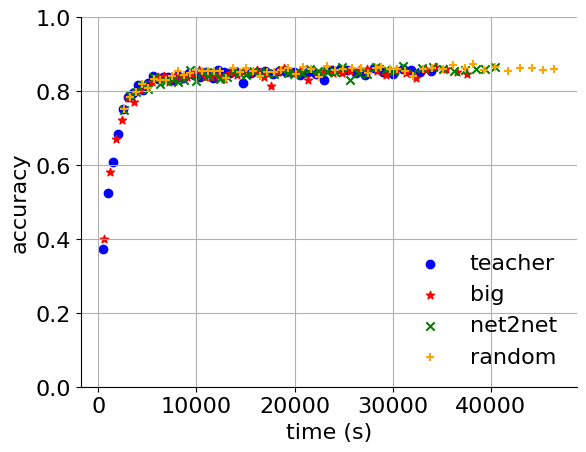
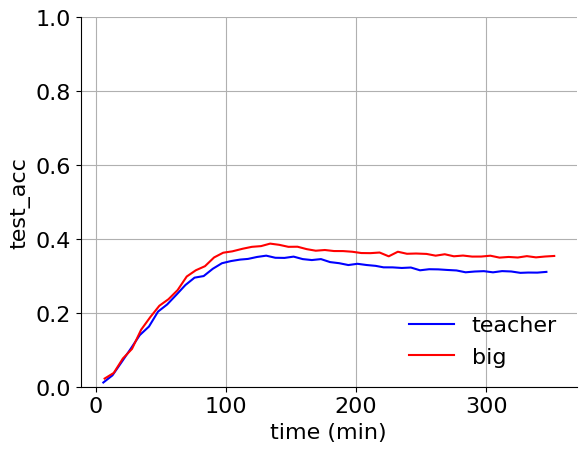
going to rerun cifar10 now so we can compare

diff --git a/plotting/plot4.py b/plotting/plot4.py
@@ -9,106 +9,78 @@ sys.path.append(os.path.join("..", "src"))
 
 import plot
 import config
+from logger import ML_Logger as LOG
 
 
 def plot6():
-    teacher_metrics = plot.breakdown_into_lists(
-        os.path.join(config.RESULTS, "TeacherInceptionCIFAR10_11_18_1")
+    metric = "train_acc"
+
+    teacher_metrics = LOG.load_metrics(
+        os.path.join(config.RESULTS, "TeacherInceptionTinyImageNet_11_19_1"),
+        "training",
+        metric,
+        "epoch",
     )
-    big_metrics = plot.breakdown_into_lists(
-        os.path.join(config.RESULTS, "BigInceptionCIFAR10_11_18_2")
+
+    big_metrics = LOG.load_metrics(
+        os.path.join(config.RESULTS, "BigInceptionTinyImageNet_11_19_2"),
+        "training",
+        metric,
+        "epoch",
     )
-    # net2net_only = plot.breakdown_into_lists(
-    #     os.path.join(config.RESULTS, "AdaptedInceptionCIFAR10_11_11_3")
-    # )
-    # random_deepen = plot.breakdown_into_lists(
-    #     os.path.join(config.RESULTS, "AdaptedInceptionCIFAR10_11_11_4")
-    # )
     _, ax = plt.subplots()
     ax.plot(
-        teacher_metrics["test_epoch_times"],
-        teacher_metrics["test_epoch_accs"],
+        plot.to_min(teacher_metrics["times"]),
+        teacher_metrics["metrics"],
         color="blue",
         linestyle="-",
         label="teacher",
     )
     ax.plot(
-        big_metrics["test_epoch_times"],
-        big_metrics["test_epoch_accs"],
+        plot.to_min(big_metrics["times"]),
+        big_metrics["metrics"],
         color="red",
         linestyle="-",
         label="big",
     )
-    # ax.plot(
-    #     np.add(
-    #         net2net_only["train_batch_times"], teacher_metrics["train_epoch_times"][3]
-    #     ),
-    #     net2net_only["train_batch_accs"],
-    #     color="green",
-    #     linestyle="-",
-    #     label="net2net"
-    # )
-    # ax.plot(
-    #     np.add(
-    #         random_deepen["train_batch_times"], teacher_metrics["train_epoch_times"][3]
-    #     ),
-    #     random_deepen["train_batch_accs"],
-    #     color="orange",
-    #     linestyle="-",
-    #     label="random"
-    # )
-    plot.make_plot_nice(ax, "time (s)", "accuracy", 0, 1)
+    plot.make_plot_nice(ax, "time (min)", metric, 0, 1)
     plot.save("plot6.png")
 
 
 def plot7():
-    teacher_metrics = plot.breakdown_into_lists(
-        os.path.join(config.RESULTS, "TeacherInceptionCIFAR10_11_11_1")
+    metric = "test_acc"
+
+    teacher_metrics = LOG.load_metrics(
+        os.path.join(config.RESULTS, "TeacherInceptionTinyImageNet_11_19_1"),
+        "training",
+        metric,
+        "epoch",
     )
-    big_metrics = plot.breakdown_into_lists(
-        os.path.join(config.RESULTS, "BigInceptionCIFAR10_11_11_2")
-    )
-    net2net_only = plot.breakdown_into_lists(
-        os.path.join(config.RESULTS, "AdaptedInceptionCIFAR10_11_11_3")
-    )
-    random_deepen = plot.breakdown_into_lists(
-        os.path.join(config.RESULTS, "AdaptedInceptionCIFAR10_11_11_4")
+
+    big_metrics = LOG.load_metrics(
+        os.path.join(config.RESULTS, "BigInceptionTinyImageNet_11_19_2"),
+        "training",
+        metric,
+        "epoch",
     )
     _, ax = plt.subplots()
-    ax.scatter(
-        teacher_metrics["test_epoch_times"],
-        teacher_metrics["test_epoch_accs"],
+    ax.plot(
+        plot.to_min(teacher_metrics["times"]),
+        teacher_metrics["metrics"],
         color="blue",
-        marker="o",
+        linestyle="-",
         label="teacher",
     )
-    ax.scatter(
-        big_metrics["test_epoch_times"],
-        big_metrics["test_epoch_accs"],
+    ax.plot(
+        plot.to_min(big_metrics["times"]),
+        big_metrics["metrics"],
         color="red",
-        marker="*",
+        linestyle="-",
         label="big",
     )
-    ax.scatter(
-        np.add(
-            net2net_only["test_epoch_times"], teacher_metrics["test_epoch_times"][3]
-        ),
-        net2net_only["test_epoch_accs"],
-        color="green",
-        marker="x",
-        label="net2net"
-    )
-    ax.scatter(
-        np.add(
-            random_deepen["test_epoch_times"], teacher_metrics["test_epoch_times"][3]
-        ),
-        random_deepen["test_epoch_accs"],
-        color="orange",
-        marker="+",
-        label="random"
-    )
-    plot.make_plot_nice(ax, "time (s)", "accuracy", 0, 1)
+    plot.make_plot_nice(ax, "time (min)", metric, 0, 1)
     plot.save("plot7.png")
+
 
 def plot8():
     kd_metrics = plot.breakdown_into_lists(
@@ -155,7 +127,8 @@ def plot8():
     plot.make_plot_nice(ax, "time (s)", "accuracy", 0, 1)
     plot.save("plot8.png")
 
+
 if __name__ == "__main__":
     plot6()
-    # plot7()
+    plot7()
     # plot8()

diff --git a/src/plot.py b/src/plot.py
@@ -6,7 +6,6 @@ from pathlib import Path
 import matplotlib.pyplot as plt
 import argparse
 import config
-from logger import read_json
 import os
 import numpy as np
 import config
@@ -74,35 +73,5 @@ def make_plot_nice(
     ax.grid()
 
 
-def breakdown_into_lists(results_folder):
-    data = read_json(os.path.join(results_folder, "training_metrics.json"))
-    train_epoch_times = list()
-    train_epoch_accs = list()
-    test_epoch_times = list()
-    test_epoch_accs = list()
-    train_batch_times = list()
-    train_batch_accs = list()
-    for entry in data:
-        # if "batch" in entry:
-        #     train_batch_times.append(entry["time"])
-        #     train_batch_accs.append(entry["train_acc"])
-        if "epoch" in entry:
-            if "train_acc" in entry:
-                train_epoch_times.append(entry["time"])
-                train_epoch_accs.append(entry["train_acc"])
-            elif "test_acc" in entry:
-                test_epoch_times.append(entry["time"])
-                test_epoch_accs.append(entry["test_acc"])
-    windowsize = 100
-    train_batch_times = train_batch_times[windowsize - 1 :]
-    # train_batch_accs = np.convolve(
-    #     train_batch_accs, np.ones(windowsize) * (1 / windowsize), "valid"
-    # )
-    return {
-        "train_epoch_times": train_epoch_times,
-        "train_epoch_accs": train_epoch_accs,
-        "test_epoch_times": test_epoch_times,
-        "test_epoch_accs": test_epoch_accs,
-        "train_batch_times": train_batch_times,
-        "train_batch_accs": train_batch_accs,
-    }
+def to_min(secs):
+    return [sec // 60 for sec in secs]

diff --git a/src/logger.py b/src/logger.py
@@ -11,7 +11,7 @@ import time
 import pytz
 import sys
 import os
-import json
+import csv
 import torch
 from collections import Counter
 
@@ -176,3 +176,22 @@ class ML_Logger(TimedLogger):
                 model.state_dict(),
                 os.path.join(self.log_folder, f"model{self.epoch_counts[save_key]}.pt"),
             )
+
+    @staticmethod
+    def load_metrics(log_folder, metrics_file, metric, granularity):
+        metrics_file = os.path.join(log_folder, metrics_file)
+
+        times = list()
+        metrics = list()
+
+        with open(
+            metrics_file + "." + granularity + "." + metric,
+            mode="r",
+            encoding="utf-8",
+        ) as f:
+            reader = csv.reader(f, delimiter=",")
+            for row in reader:
+                times.append(float(row[0]))
+                metrics.append(float(row[1]))
+
+        return {"times": times, "metrics": metrics}
